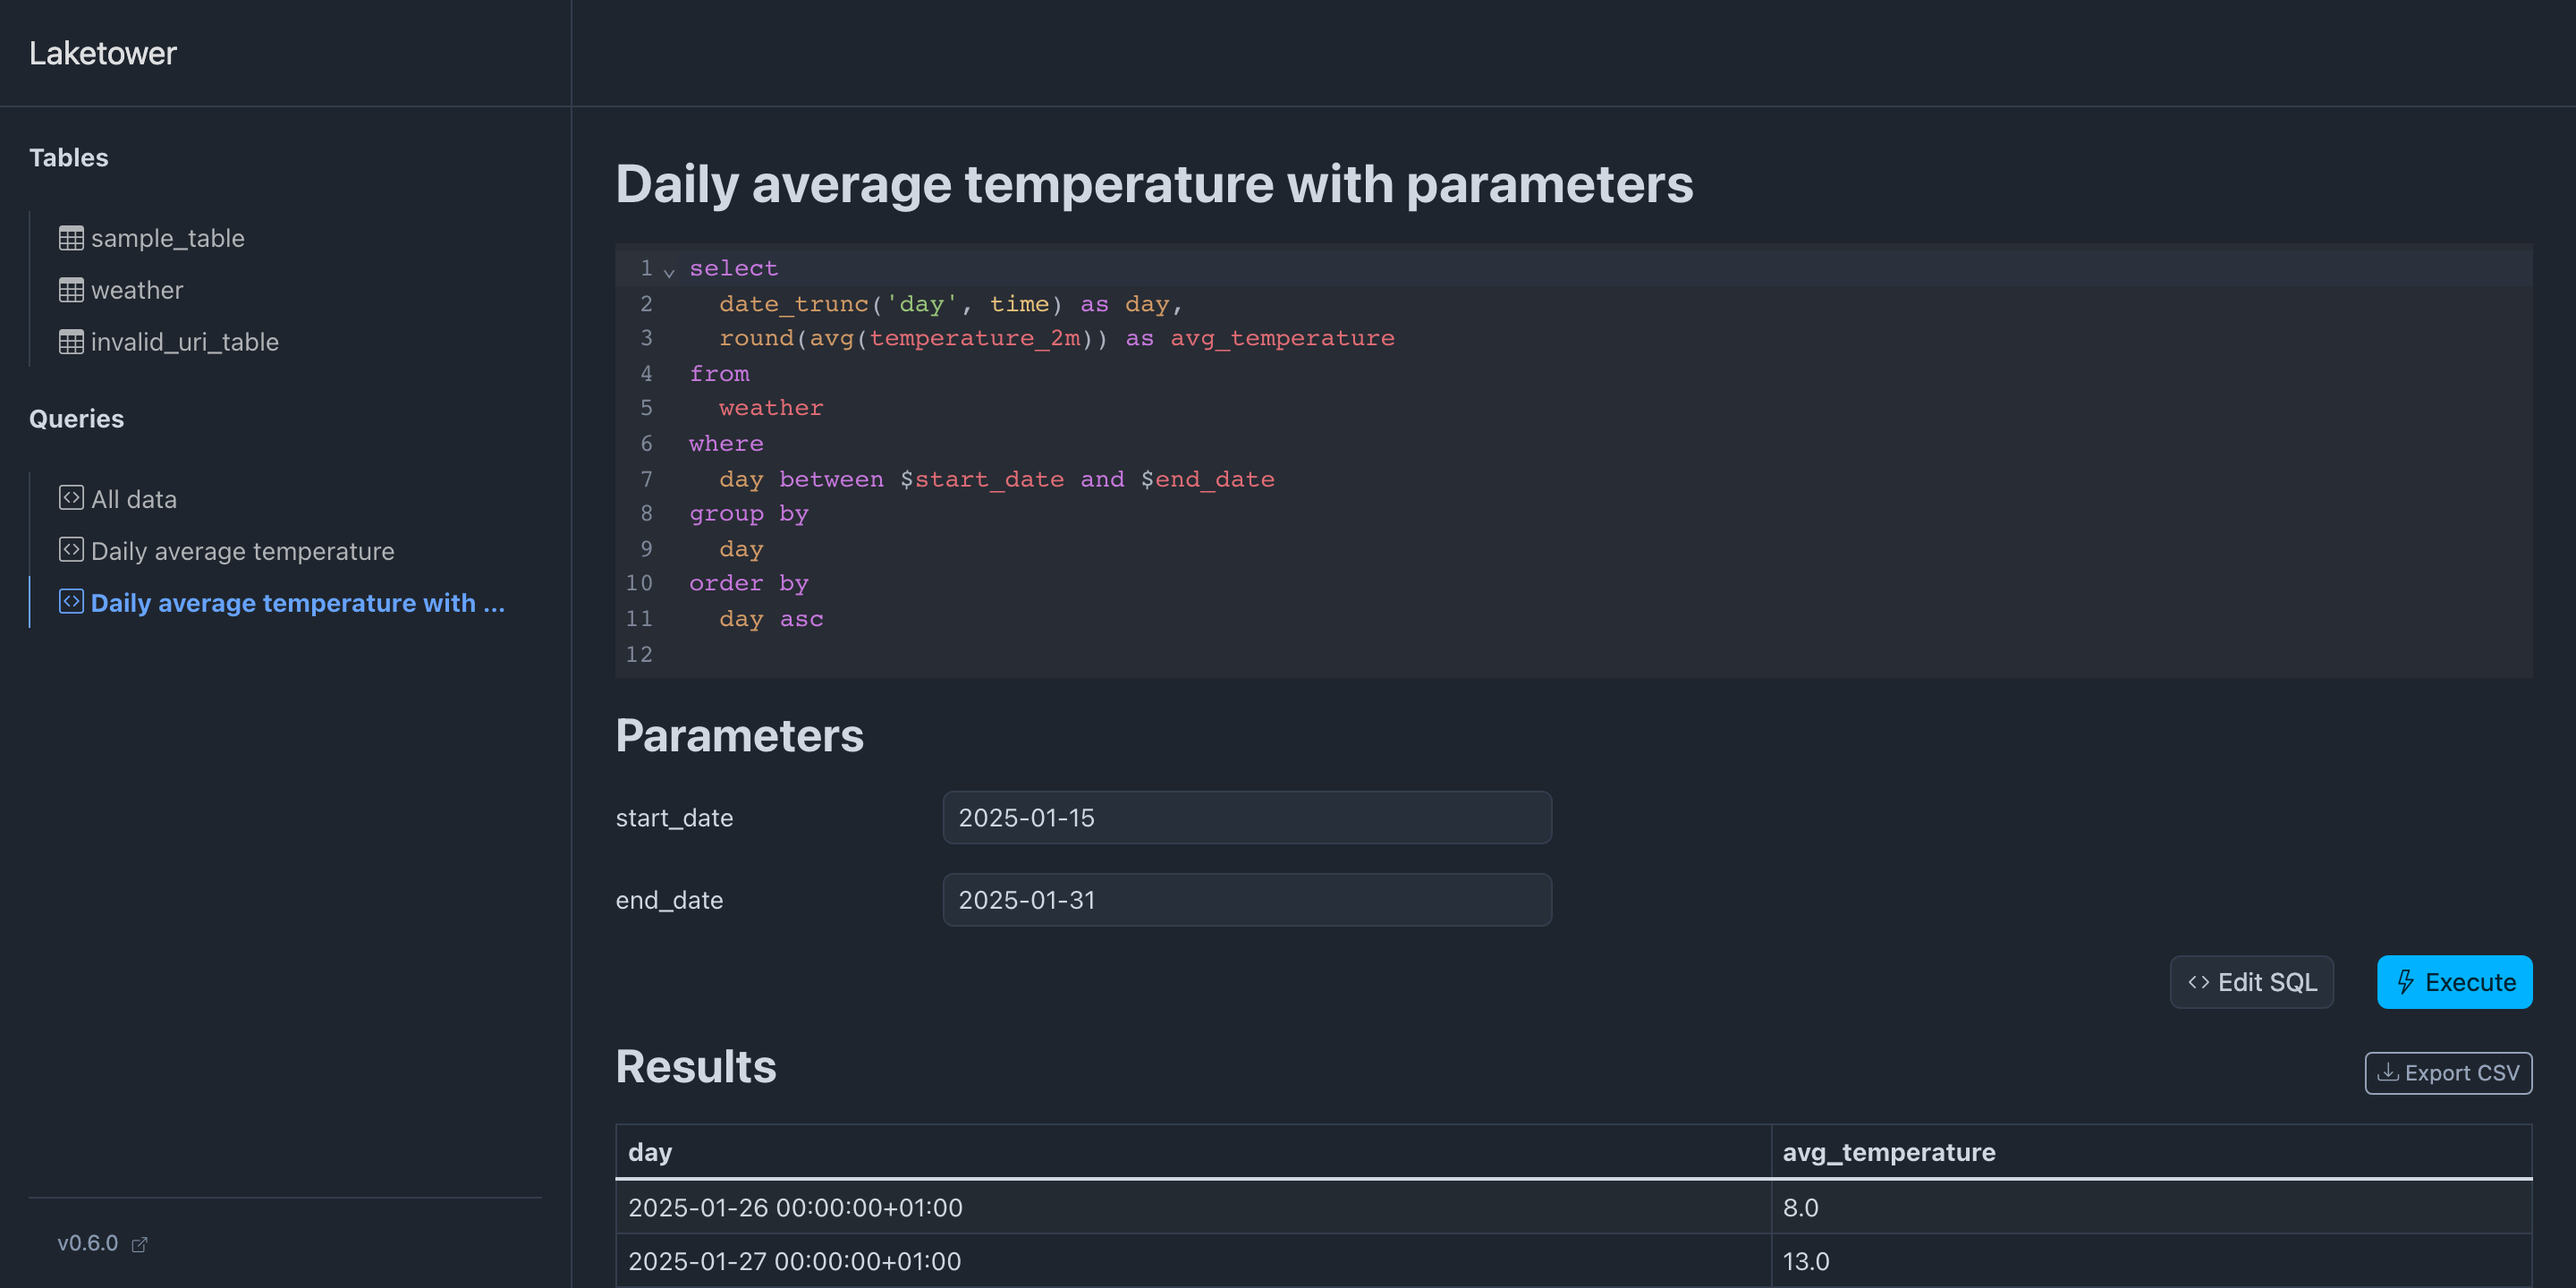
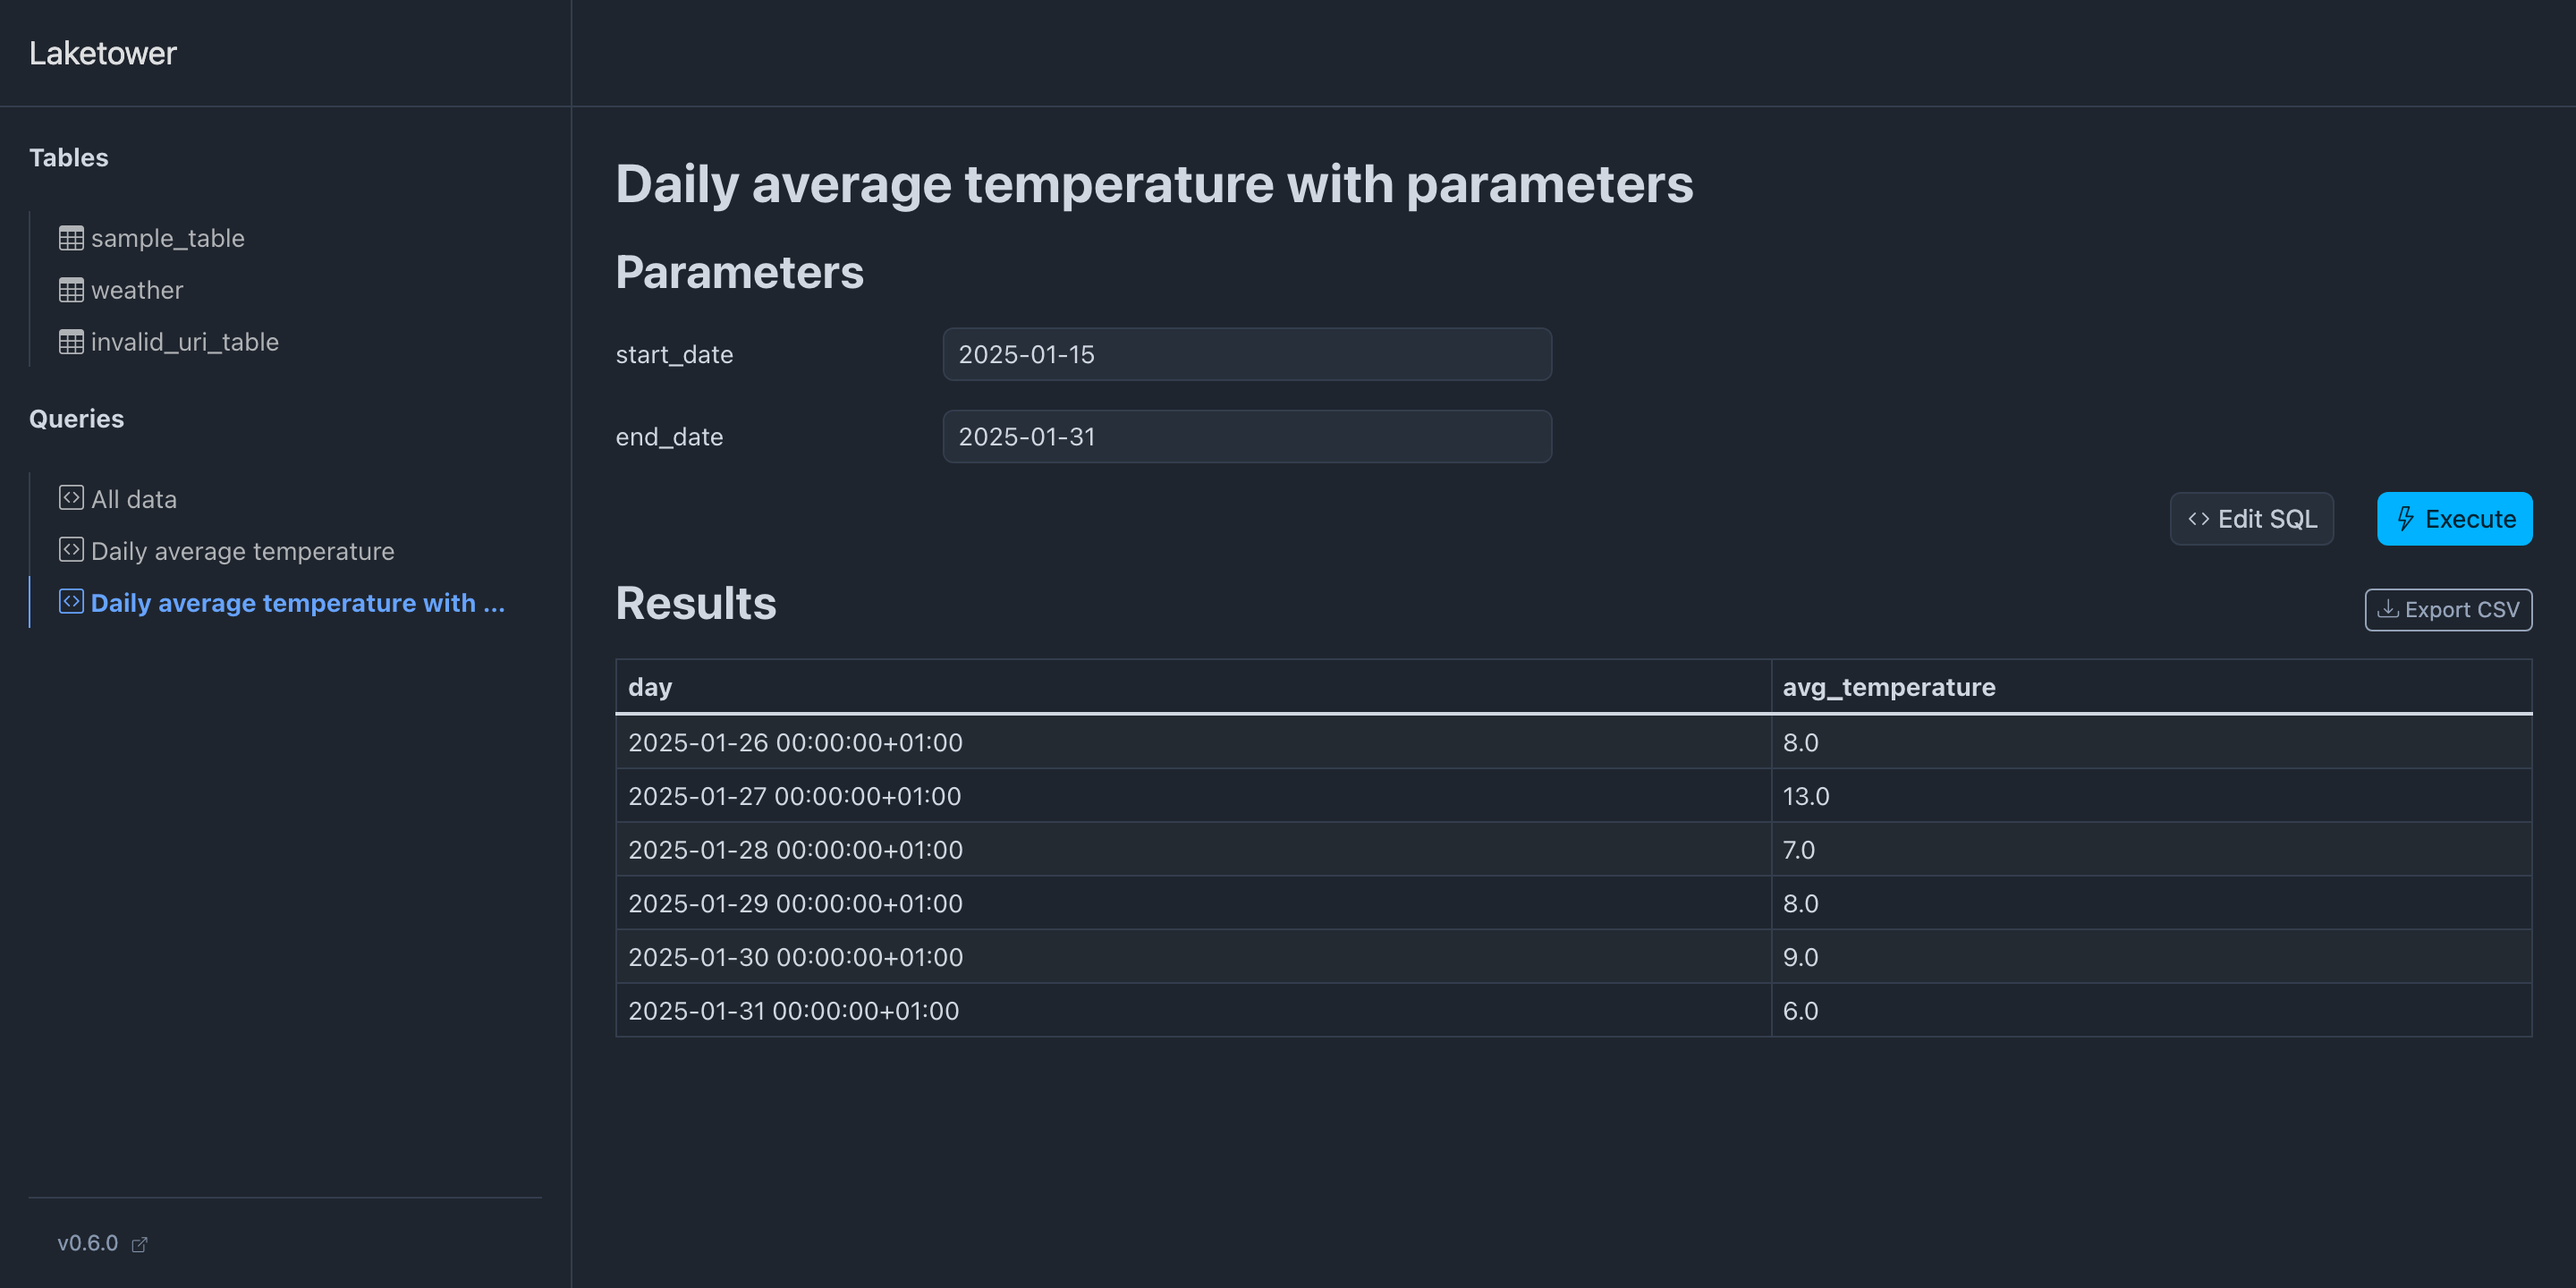
feat(web): hide sql editor for predefined queries

diff --git a/laketower/templates/queries/view.html b/laketower/templates/queries/view.html
@@ -6,10 +6,6 @@
     <h2 class="mb-3">{{ query.title }}</h2>
 
     <form action="{{ request.url.path }}" method="get">
-      <div class="mb-3">
-        <textarea disabled id="sql-editor" name="sql" rows="5" class="form-control">{{ query.sql }}</textarea>
-      </div>
-
       {% if sql_params|length %}
       <h3 class="mb-3">Parameters</h3>
       {% for param_name, param_value in sql_params.items() %}
@@ -75,15 +71,4 @@
     {% endif %}
   </div>
 </div>
-{% endblock %}
-
-{% block extra_scripts %}
-<script src="{{ url_for('static', path='/editor.bundle.js') }}"></script>
-<script>
-  window.addEventListener("DOMContentLoaded", () => {
-    const textArea = document.querySelector("textarea#sql-editor")
-    textArea.style.display = "none";
-    const sqlEditor = editor.createEditor(textArea, {readOnly: true, dialect: 'duckdb' })
-  })
-</script>
 {% endblock %}

diff --git a/tests/test_web.py b/tests/test_web.py
@@ -696,7 +696,7 @@ def test_queries_view(client: TestClient, sample_config: dict[str, Any]) -> None
     soup = BeautifulSoup(html, "html.parser")
 
     assert soup.find("h2", string=query["title"])
-    assert (textarea := soup.find("textarea")) and textarea.text.strip() == query["sql"]
+    assert soup.find("textarea") is None
     assert next(filter(lambda a: a.text.strip() == "Edit SQL", soup.find_all("a")))
     assert next(filter(lambda a: a.text.strip() == "Execute", soup.find_all("button")))
 
@@ -777,7 +777,7 @@ def test_queries_view_invalid(
     soup = BeautifulSoup(html, "html.parser")
 
     assert soup.find("h2", string=query["title"])
-    assert (textarea := soup.find("textarea")) and textarea.text.strip() == query["sql"]
+    assert soup.find("textarea") is None
     assert next(filter(lambda a: a.text.strip() == "Edit SQL", soup.find_all("a")))
     assert next(filter(lambda a: a.text.strip() == "Execute", soup.find_all("button")))
 

diff --git a/CHANGELOG.md b/CHANGELOG.md
@@ -15,6 +15,7 @@ and this project adheres to [Semantic Versioning](https://semver.org/spec/v2.0.0
 - cli: add support for predefined queries parameters
 
 ### Changed
+- web: hide SQL editor for predefined queries
 - demo: add parameters to daily avg temperature query
 
 ### Fixed
